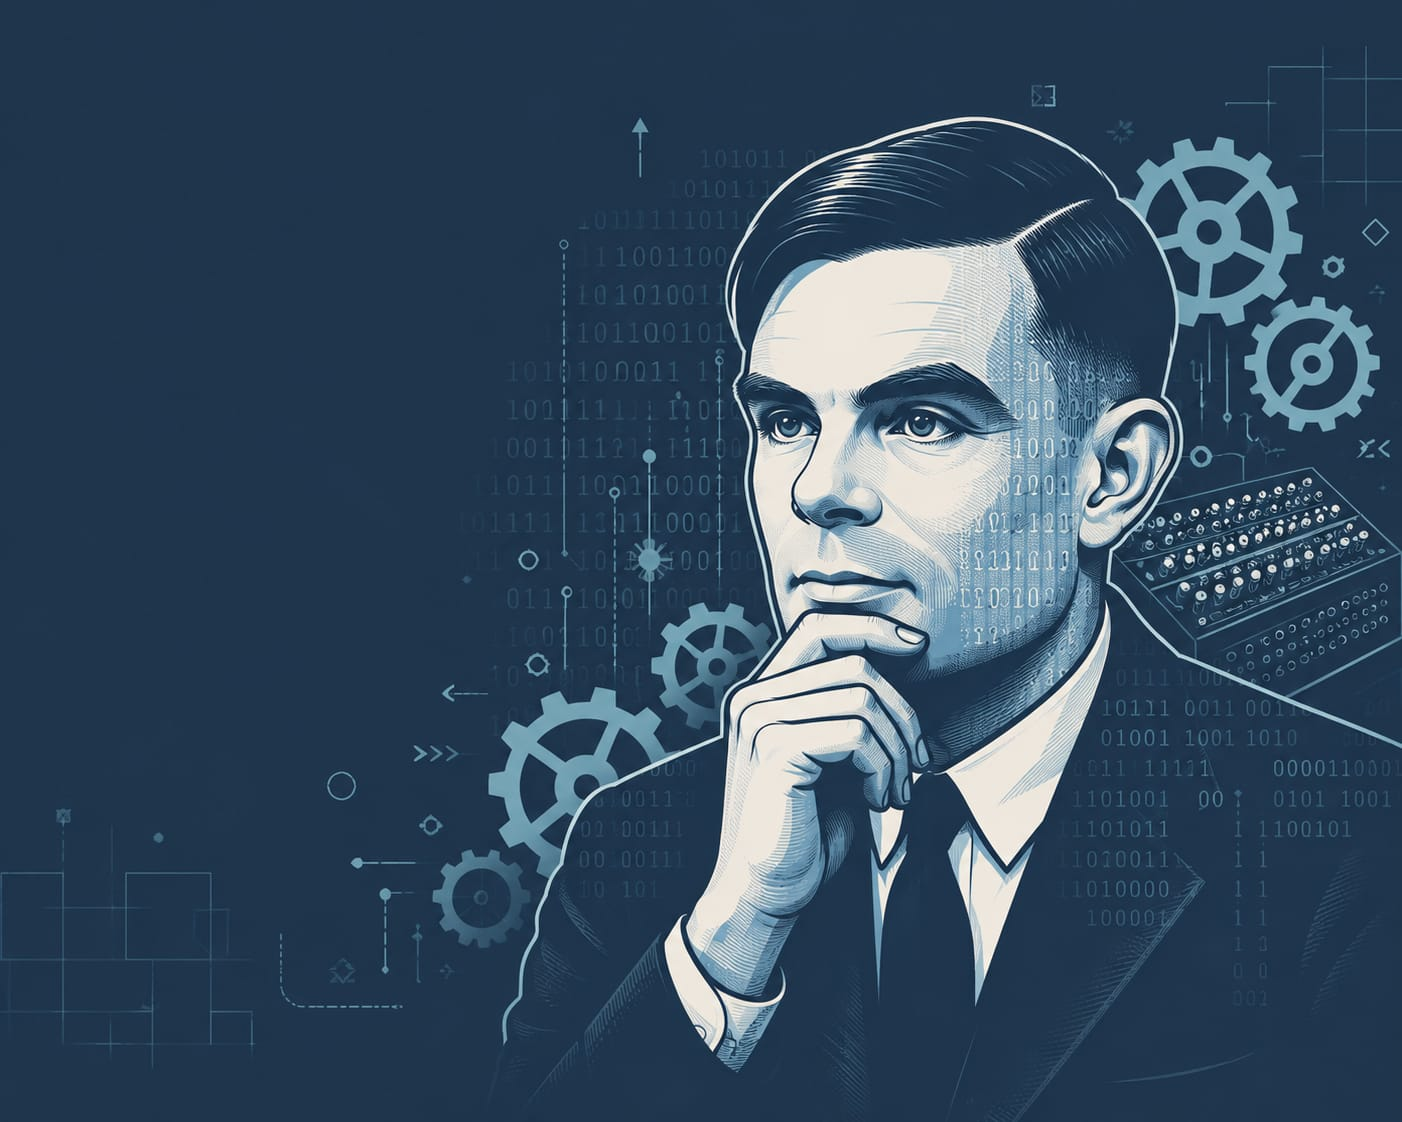
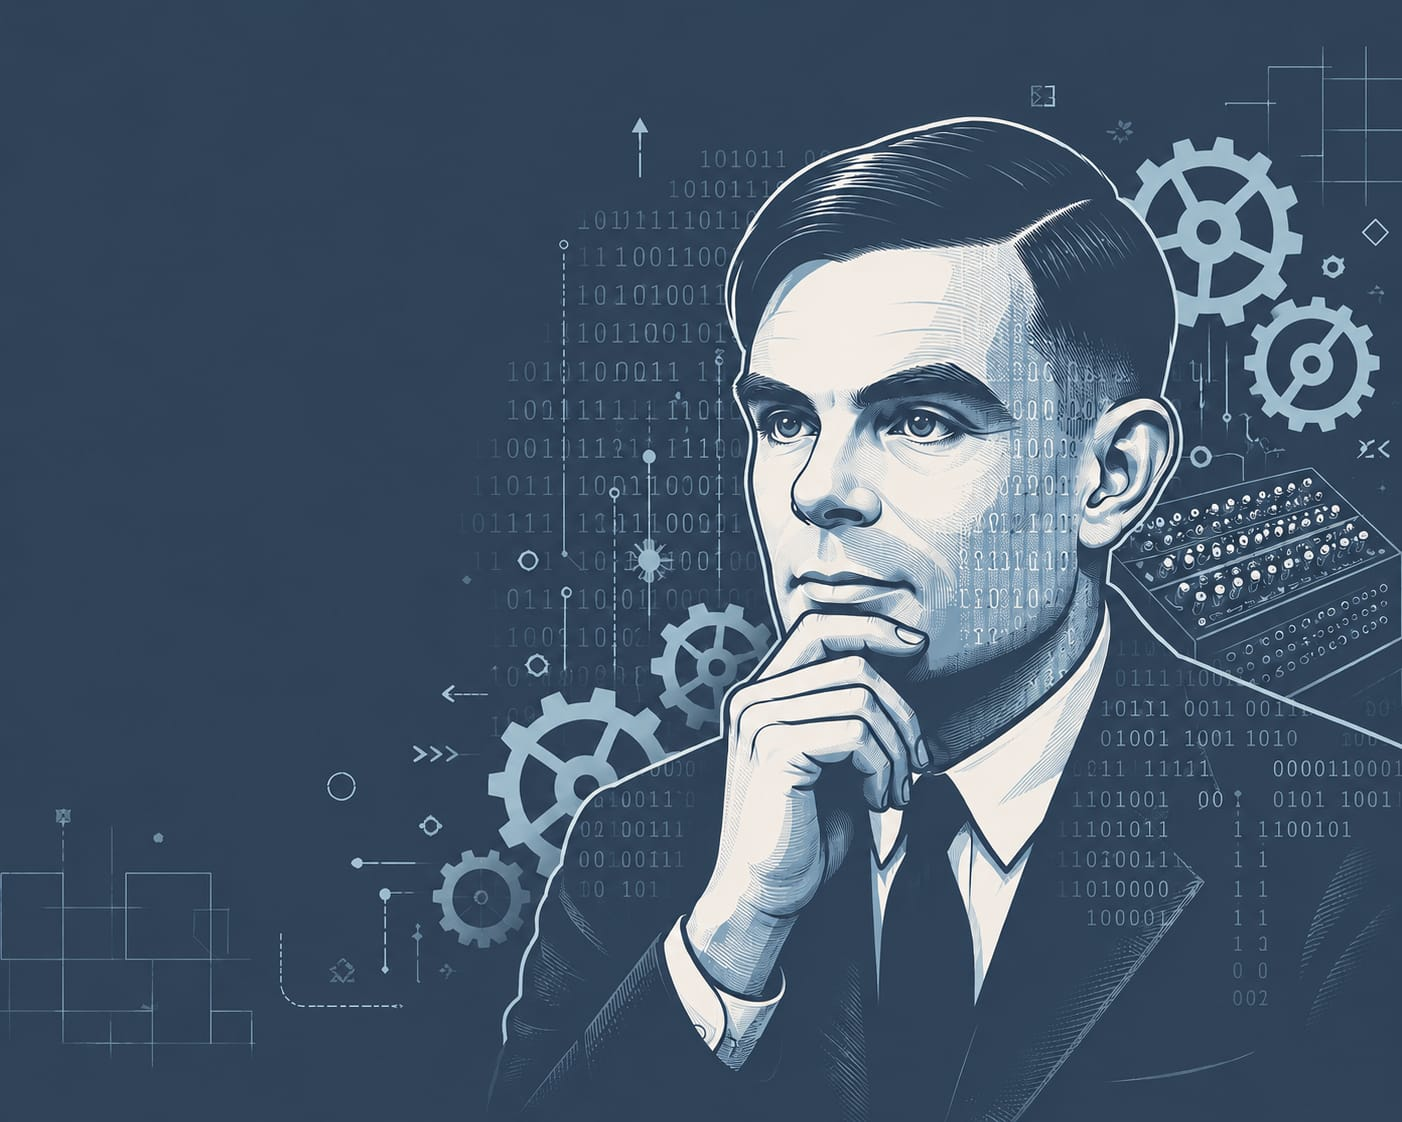
update

diff --git a/CSS/index.css b/CSS/index.css
@@ -1,0 +1,171 @@
+* {
+  margin: 0;
+  padding: 0;
+  box-sizing: border-box;
+}
+body {
+  font-family: sans-serif;
+  background-color: #314258;
+  color: #fff;
+  line-height: 1.6;
+}
+a {
+  text-decoration: none;
+  color: inherit;
+}
+ul {
+  list-style: none;
+}
+.header {
+  background-color: #f5efeb;
+  padding: 20px 5%;
+  width: 100%;
+  box-shadow: 0 4px 20px rgba(47, 65, 86, 0.12);
+}
+.navbar {
+  display: flex;
+  justify-content: space-between;
+  align-items: center;
+}
+.logo a {
+  font-size: 24px;
+  font-weight: bold;
+  color: #2f4156;
+  letter-spacing: 2px;
+}
+.nav-links {
+  display: flex;
+  gap: 20px;
+}
+.nav-links a {
+  color: #2f4156;
+  font-weight: 600;
+}
+.nav-links a:hover {
+  color: #80abbe;
+}
+.hero-section {
+  min-height: calc(100vh - 78.4px);  
+  display: flex;
+  align-items: center;
+  padding: 0 0 0 5%;
+  overflow: hidden;
+}
+.hero-container {
+  display: flex;
+  flex-direction: row;
+  justify-content: space-between;
+  gap: 40px;
+  width: 100%;
+  align-items: center;
+  height: 100%;
+}
+.hero-content {
+  flex: 1;
+}
+.hero-image {
+  flex: 1.2;   
+  display: flex;
+  justify-content: flex-end;
+  align-items: center;
+  height: 100%;
+}
+.hero-content h1 {
+  font-size: 45px;
+  color: #fff;
+  margin-bottom: 10px;
+}
+.hero-content h2 {
+  font-size: 20px;
+  color: #f5efeb;
+  margin-bottom: 20px;
+}
+.hero-desc {
+  font-size: 16px;
+  color: #ccc;
+  margin-bottom: 30px;
+}
+.hero-buttons {
+  display: flex;
+  gap: 15px;
+  margin-bottom: 30px;
+}
+.btn {
+  padding: 10px 25px;
+  border-radius: 5px;
+  font-weight: bold;
+  display: inline-block;
+  transition: 0.3s;
+  background-color: #567c8d;
+  color: #fff;
+  border: 1px solid #567c8d;
+}
+.btn:hover {
+  color: #2f4156;
+  background-color: #c8d9e6;
+  border-color: #c8d9e6;
+}
+.hero-image img {
+  width: 100%;
+  height: 100%;
+  object-fit: cover;
+  object-position: center;
+  border-radius: 0;
+}
+.footer {
+  background-color: #314258;
+  padding: 25px 5%;
+}
+.footer-content {
+  display: flex;
+  justify-content: space-between;
+  align-items: center;
+}
+.footer-quote {
+  font-size: 14px;
+  text-align: right;
+  font-style: italic;
+}
+
+@media (max-width: 768px) {
+  .navbar {
+    flex-direction: column;          
+    gap: 15px;
+    text-align: center;
+  }
+  .nav-links {
+    gap: 15px;
+    font-size: 14px;
+  }
+  .hero-section {
+    padding: 40px 5%;
+    height: auto;
+    min-height: calc(100vh - 120px);
+  }
+  .hero-container {
+    flex-direction: column;
+    height: auto;
+    gap: 30px;
+  }
+  .hero-content {
+    text-align: center;
+  }
+  .hero-buttons {
+    justify-content: center;
+  }
+  .hero-image {
+    width: 100%;
+    height: 300px;
+  }
+  .hero-image img {
+    width: 100%;
+    height: 100%;
+    object-fit: contain;
+  }
+  .footer-content {
+    display: flex;
+    justify-content: space-between;
+    align-items: center;
+    width: 100%;
+  }
+}

diff --git a/index.html b/index.html
@@ -1,53 +1,64 @@
-<!DOCTYPE html>
+<!doctype html>
 <html lang="en">
-<head>
-    <meta charset="UTF-8">
-    <link rel="stylesheet" href="https://cdnjs.cloudflare.com/ajax/libs/font-awesome/6.4.0/css/all.min.css">     <!-- Icon Library -->
-    <meta name="viewport" content="width=device-width, initial-scale=1.0">                                       <!-- Responsive Design -->
-    <meta name="description" content="Alan Turing was a pioneering mathematician, computer scientist, and cryptanalyst. He is widely considered to be the father of theoretical computer science and artificial intelligence.">
-    <link rel="stylesheet" href="css/index.css">                                                                                    
-    <title>Alan Turing Portfolio</title>
-</head>
-<body>
+  <head>
+    <meta charset="UTF-8" />
+    <link
+      rel="stylesheet"
+      href="https://cdnjs.cloudflare.com/ajax/libs/font-awesome/6.4.0/css/all.min.css"
+    />
+    <meta name="viewport" content="width=device-width, initial-scale=1.0" />
+    <meta
+      name="description"
+      content="Alan Turing was a pioneering mathematician, computer scientist, and cryptanalyst. He is widely considered to be the father of theoretical computer science and artificial intelligence."
+    />
+    <link rel="stylesheet" href="css/index.css" />
+    <title>Alan Turing-Home</title>
+  </head>
+  <body>
     <header class="header">
-        <nav class="navbar">
-            <div class="logo">
-                <a href="index.html">TURING</a>
-            </div>
-            <ul class="nav-links">
-                <li><a href="index.html">HOME</a></li>
-                <li><a href="about.html">ABOUT</a></li>
-                <li><a href="projects.html">PROJECTS</a></li>
-                <li><a href="contact.html">CONTACT</a></li>
-            </ul>
-        </nav>
+      <nav class="navbar">
+        <div class="logo">
+          <a href="index.html">TURING</a>
+        </div>
+        <ul class="nav-links">
+          <li><a href="index.html">HOME</a></li>
+          <li><a href="about.html">ABOUT</a></li>
+          <li><a href="projects.html">PROJECTS</a></li>
+          <li><a href="contact.html">CONTACT</a></li>
+        </ul>
+      </nav>
     </header>
     <main>
-        <section class="hero-section">
-            <div class="hero-container"> 
-                <div class="hero-content">
-                    <h1>ALAN TURING</h1>
-                    <h2>THE FATHER OF MODERN COMPUTING & AI.</h2>
-                    <p class="hero-desc">Explorations in Cryptanalysis, Mathematical Logic, and Universal Machines.</p>
-                    <div class="hero-buttons">
-                        <a href="projects.html" class="btn">View Projects</a>
-                        <a href="about.html" class="btn">Learn More</a>
-                    </div>   
-                </div>
-                <div class="hero-image">
-                    <img src="image/home-image.jpeg" alt="Alan Turing Portrait">
-                </div>
+      <section class="hero-section">
+        <div class="hero-container">
+          <div class="hero-content">
+            <h1>ALAN TURING</h1>
+            <h2>THE FATHER OF MODERN COMPUTING & AI.</h2>
+            <p class="hero-desc">
+              Explorations in Cryptanalysis, Mathematical Logic, and Universal
+              Machines.
+            </p>
+            <div class="hero-buttons">
+              <a href="projects.html" class="btn">View Projects</a>
+              <a href="about.html" class="btn">Learn More</a>
             </div>
-        </section>
+          </div>
+          <div class="hero-image">
+            <img src="image/home-image.jpeg" alt="Alan Turing Portrait" />
+          </div>
+        </div>
+      </section>
     </main>
     <footer class="footer">
-        <div class="footer-content">
-            <p class="copyright">&copy; 2026 Alan Turing Portfolio. All rights reserved.</p>
-            <blockquote class="footer-quote">
-                "THOSE WHO CAN IMAGINE ANYTHING, CAN CREATE THE IMPOSSIBLE."
-                <span>- Alan Turing</span>
-            </blockquote>
-        </div>
+      <div class="footer-content">
+        <p class="copyright">
+          &copy; 2026 Alan Turing Portfolio. All rights reserved.
+        </p>
+        <blockquote class="footer-quote">
+          "THOSE WHO CAN IMAGINE ANYTHING, CAN CREATE THE IMPOSSIBLE."
+          <span>- Alan Turing</span>
+        </blockquote>
+      </div>
     </footer>
-</body>
+  </body>
 </html>